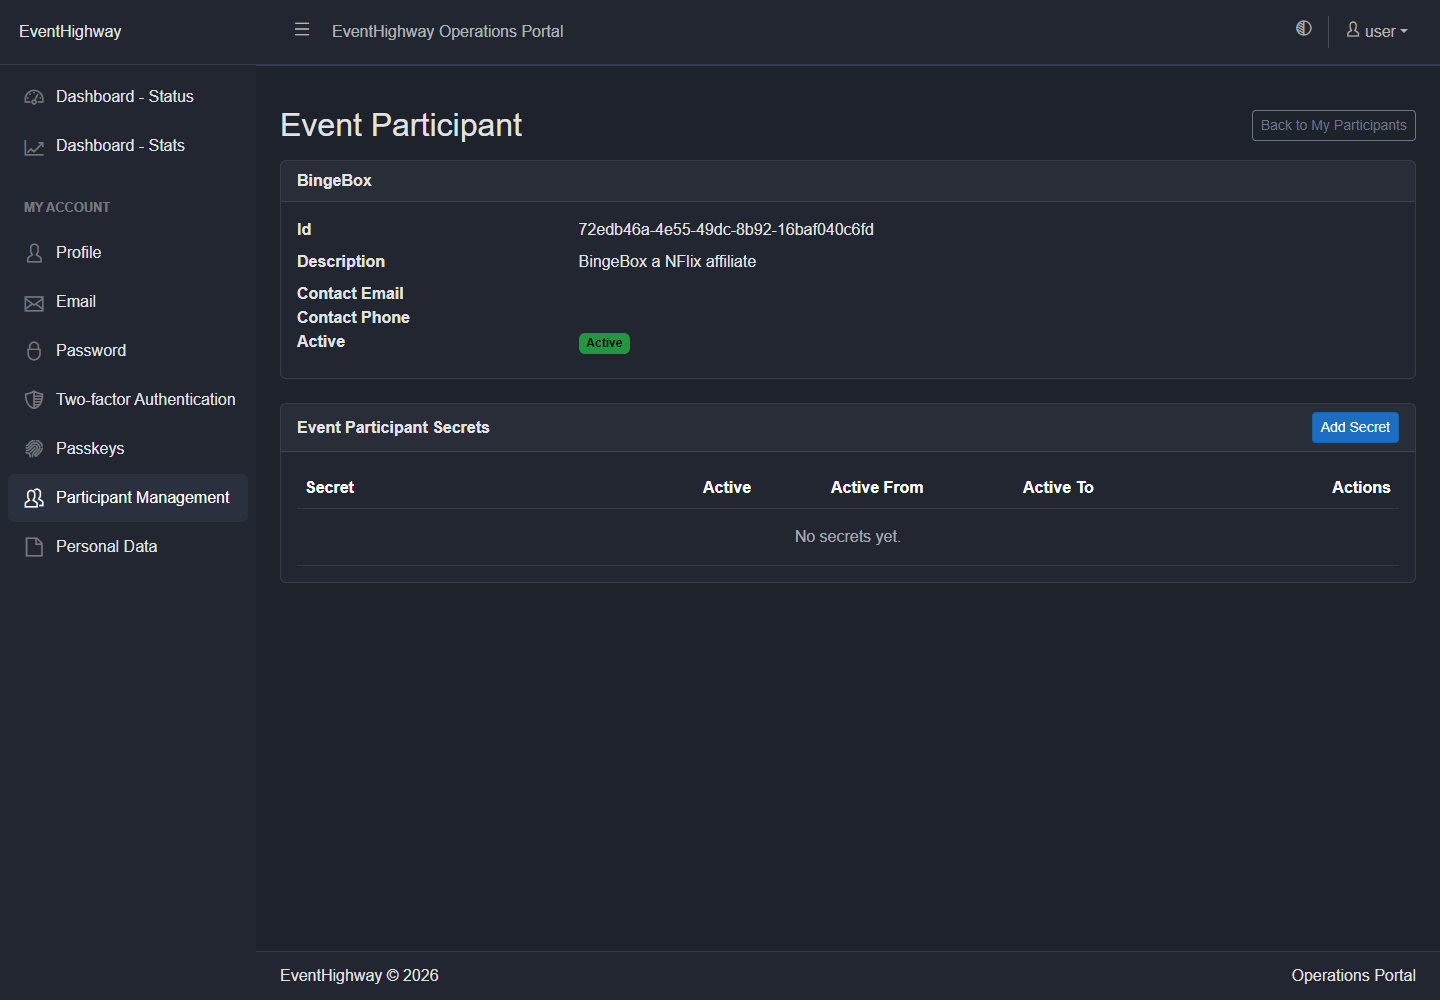
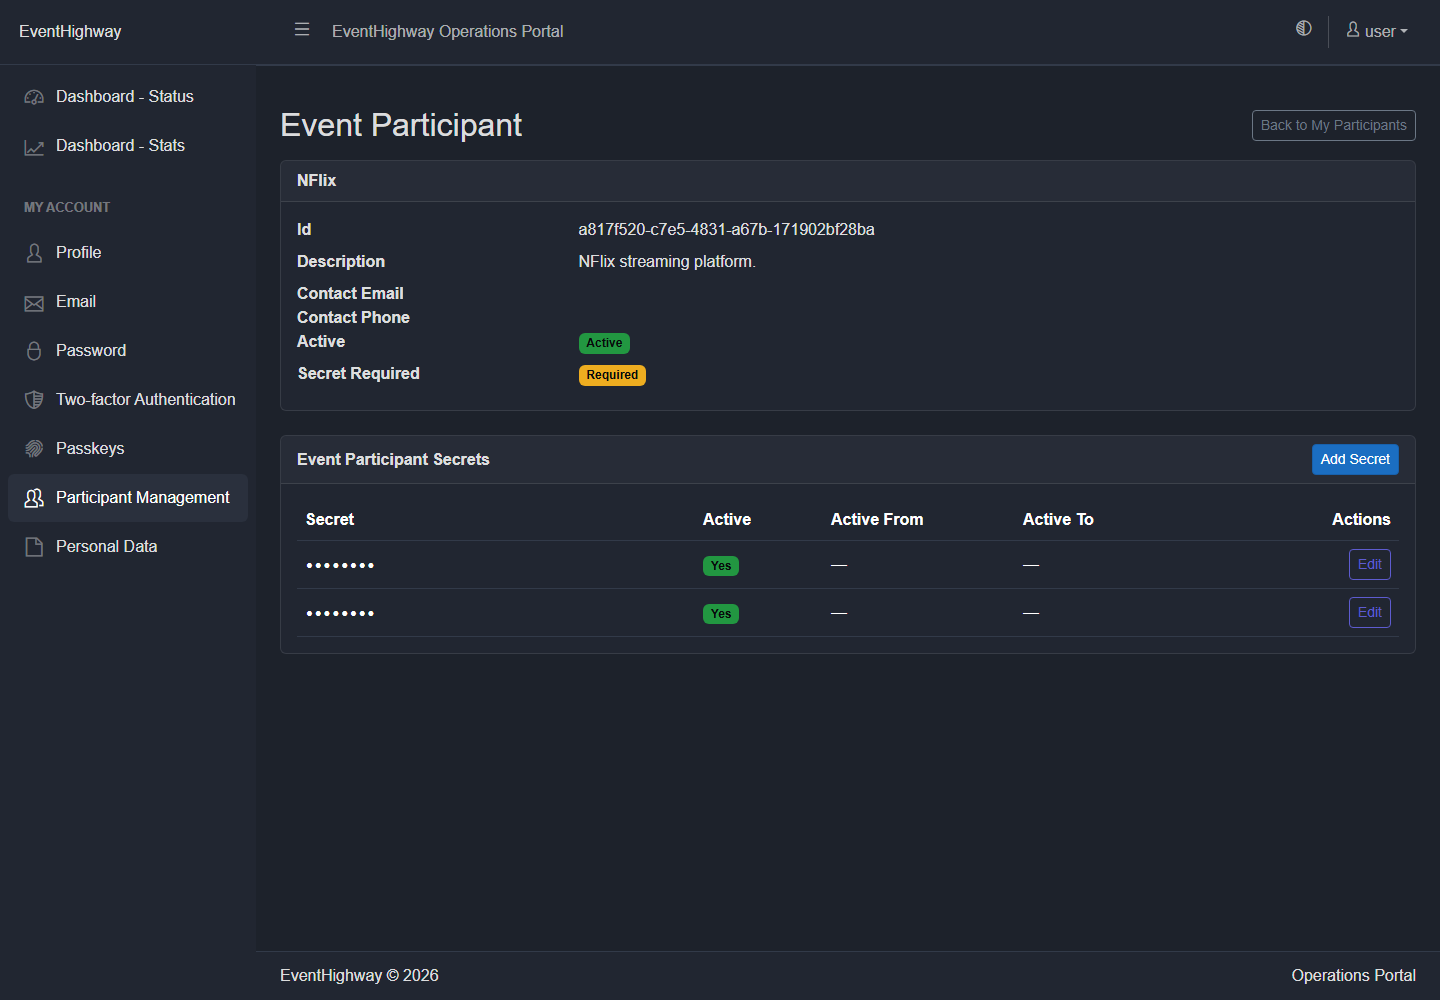
DOCUMENTATION: Participant Secret Hashing, One-Time Secrets And IsSecretRequired

diff --git a/Documentation/EventHighway.Portal.Web/EventHighway.Portal.Web.Design.md b/Documentation/EventHighway.Portal.Web/EventHighway.Portal.Web.Design.md
@@ -443,9 +443,11 @@ authenticate to the highway with **secrets**.
 
 ![Participants list](Images/Portal-Participants.png)
 
-- **Columns:** Id, Name, Description, Contact Email, Active (Yes/No). Searchable, sortable, paged.
-- **Add Participant** (top right) opens a modal: Name, Description, Contact Email, Contact Phone
-  and an Active switch (on by default).
+- **Columns:** Id, Name, Description, Contact Email, Active (Yes/No), Secret Required (Yes/No).
+  Searchable, sortable, paged.
+- **Add Participant** (top right) opens a modal: Name, Description, Contact Email, Contact Phone,
+  an Active switch (on by default) and a **Secret Required** switch (off by default; see
+  [§7.2](#72-participant-details--secrets)).
 - **VIEW** opens the participant's detail page.
 
 ### 7.2 Participant details & secrets
@@ -454,18 +456,28 @@ authenticate to the highway with **secrets**.
 
 ![Participant detail](Images/Portal-Participant-Detail.png)
 
-The header card shows the participant with **Edit** (same modal as create) and **Delete** buttons.
-Delete asks for confirmation — *"Deleting this participant is permanent and cannot be undone."*
+The header card shows the participant — including a **Secret Required** badge
+(*Required*/*Optional*) — with **Edit** (same modal as create, including the Secret Required
+switch) and **Delete** buttons. Delete asks for confirmation — *"Deleting this participant is
+permanent and cannot be undone."* When **Secret Required** is on, the highway rejects any event
+submitted on this participant's behalf without a valid secret; when off, the secret stays optional.
 
 Below it, the **Event Participant Secrets** card manages the participant's credentials:
 
 - **Columns:** Secret, Active, Active From, Active To, Actions.
-- Secret values are **masked** (••••••••) with an eye toggle to reveal/hide each one.
-- **Add Secret** opens a modal (Secret value, Active From, Active To, Active switch).
+- Secret values are **masked** (••••••••) and can never be revealed — secrets are stored as
+  one-way SHA-256 hashes, so the plaintext no longer exists after creation.
+- **Add Secret** opens a modal that **generates a strong secret** for you — no free-text input.
+  The value is shown once, masked, with an eye toggle to reveal it and a **Copy** button, under a
+  warning: *"Make a note of this secret — you will not be able to see it again once you leave this
+  page."* The modal also carries the validity fields (Active From, Active To, Active switch).
 - **Edit** switches the row to inline editing — toggle Active, adjust the validity window — with
-  Save/Delete; deleting a secret asks for confirmation (permanent).
+  Save/Delete; the secret value itself is immutable. Deleting a secret asks for confirmation
+  (permanent).
 - Secrets have validity windows (`Active From` / `Active To`) so keys can be rotated: introduce the
   new secret before the old one lapses, then revoke the old one.
+
+![Add Secret modal](Images/Portal-Participant-Add-Secret.png)
 
 At the bottom, an **Associated Users** card lists the portal users linked to this participant
 (Username, Email) with a **Remove** button each, and a **Find User** lookup (by username or email)
@@ -675,8 +687,8 @@ Associated users reach their participants through **My Account → Participant M
   ![My Participants list](Images/Portal-My-Participants.png)
 
 - **Detail** (`/my/participants/{id}`) — the participant profile **read-only** (no Edit, no Delete,
-  no edit modal) plus the full **secrets** card: add, reveal/hide, inline-edit and delete secrets,
-  exactly as [§7.2](#72-participant-details--secrets).
+  no edit modal) plus the full **secrets** card: add (generated, shown once), inline-edit and
+  delete secrets, exactly as [§7.2](#72-participant-details--secrets).
 
   ![My Participant detail](Images/Portal-My-Participant-Detail.png)
 

diff --git a/Documentation/EventHighway.Core/V2/EventHighway.Core.V2.Design.md b/Documentation/EventHighway.Core/V2/EventHighway.Core.V2.Design.md
@@ -248,18 +248,35 @@ supplied, "validate participants" (step 2 of §1's sequence) means:
 1. **The participant must exist, be active, and fall inside its own `ActiveFrom`/`ActiveTo` window.**
    If not, an `InvalidEventParticipantV2OrchestrationException` is thrown and the event is never
    persisted.
-2. If `EventParticipantV2Secret` is also supplied, it must match one of that participant's secrets —
+2. If the participant has **`IsSecretRequired == true`**, an `EventParticipantV2Secret` **must** be
+   supplied — a secretless submission for that participant throws
+   `InvalidEventParticipantV2OrchestrationException`. Participants with `IsSecretRequired == false`
+   (the default) keep the open behaviour described in the note below.
+3. If `EventParticipantV2Secret` is supplied, it must match one of that participant's secrets —
    a single **matching, active, in-window** `EventParticipantSecretV2` is enough. If none match, the
-   same exception is thrown.
-3. **Supplying a secret without an id is invalid on its own** — a secret needs a participant to be
+   same exception is thrown. The submitted value is the **plaintext** secret; it is SHA-256-hashed
+   before comparison (see below).
+4. **Supplying a secret without an id is invalid on its own** — a secret needs a participant to be
    checked against, so this also throws `InvalidEventParticipantV2OrchestrationException`.
 
 > **These fields are intentionally optional on the library.** Internal events — published by code
-> that already trusts its own callers — don't need to prove who they're from. The recommendation is
-> that **external event receivers make these fields mandatory in their own foundation services**, so
-> that no externally-submitted event can be created without them. Participant evaluation itself still
-> happens inside EventHighway (§1.5 above) when `SubmitEventV2Async` is called — the foundation
-> service's job is only to enforce that the values are supplied, not to evaluate them.
+> that already trusts its own callers — don't need to prove who they're from. To require
+> authentication for a specific participant, set **`IsSecretRequired`** on that participant — the
+> library then rejects any submission on its behalf that doesn't carry a valid secret. Beyond that,
+> the recommendation stands that **external event receivers make these fields mandatory in their own
+> foundation services**, so that no externally-submitted event can be created without them.
+> Participant evaluation itself still happens inside EventHighway (§1.5 above) when
+> `SubmitEventV2Async` is called — the foundation service's job is only to enforce that the values
+> are supplied, not to evaluate them.
+
+**Secrets are hashed at rest and transient in flight.** `EventParticipantSecretV2.Secret` stores a
+lowercase-hex **SHA-256 hash** — the plaintext is visible exactly once, at creation time, and cannot
+be recovered afterwards (the Portal generates a strong secret and shows it a single time for this
+reason). At submission the caller supplies the plaintext on `EventV2.EventParticipantV2Secret`; the
+orchestration hashes it and compares hashes, and the coordination **clears the field immediately
+after validation**, so the secret is never persisted on `EventV2` (the property is also ignored by
+the storage mapping), never archived, and never travels further down the pipeline — replay and
+restore paths operate without it.
 
 **Secrets are time-based, and a participant can hold more than one at once.** Each
 `EventParticipantSecretV2` carries its own `ActiveFrom`/`ActiveTo` window, independent of the
